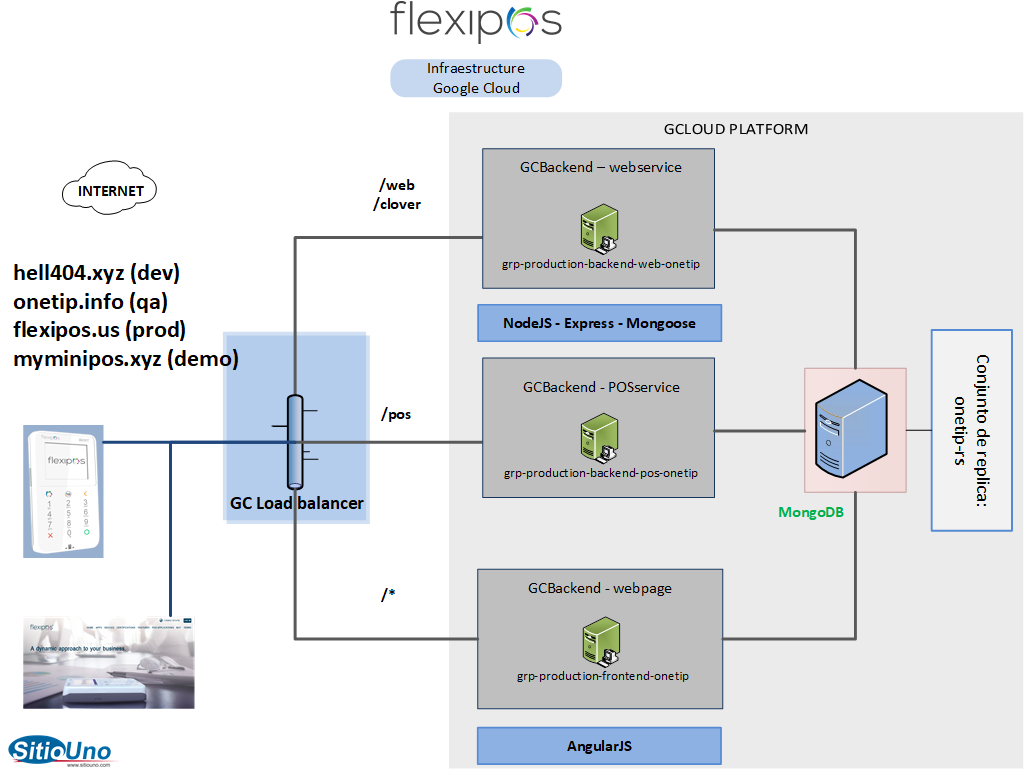
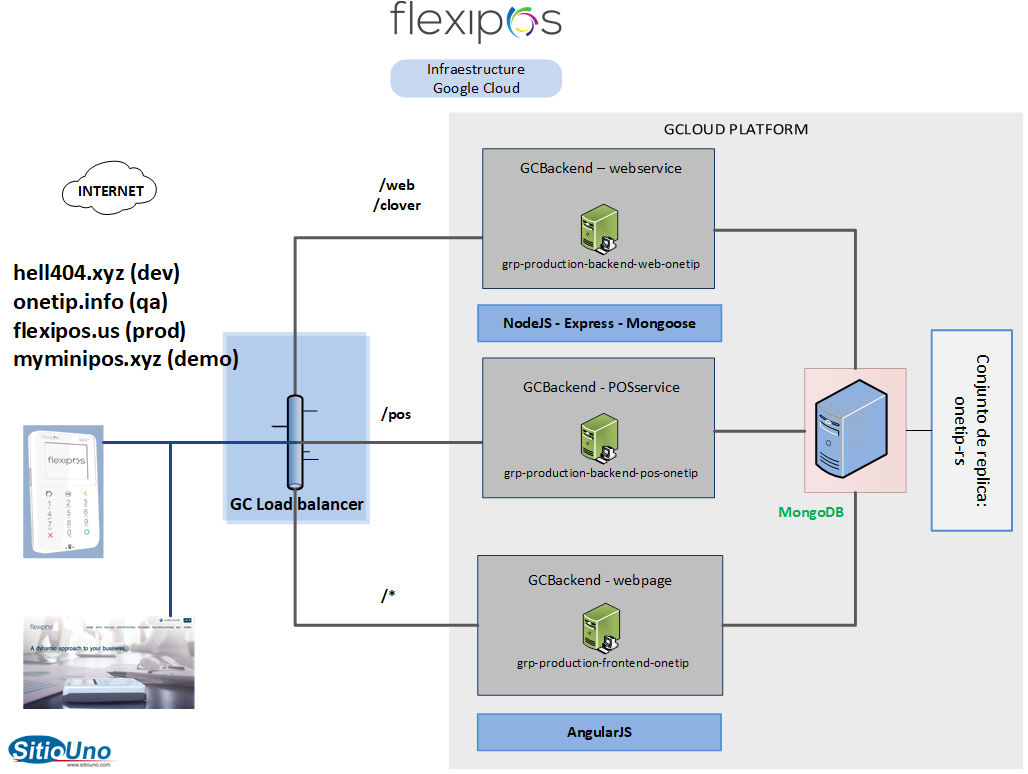
agregando estilo a las imagenes

diff --git a/assets/css/custom.css b/assets/css/custom.css
@@ -1,0 +1,3 @@
+img {
+  width: 70% !important;
+}

diff --git a/template/section1/PITCHME.md b/template/section1/PITCHME.md
@@ -1,5 +1,3 @@
 # Arquitectura generica
 
----
-
-![Logo](assets/img/gCloud_Flexipos_Onetip_Generico.png)
+---?image=assets/img/gCloud_Flexipos_Onetip_Generico.png&size=auto 100%
